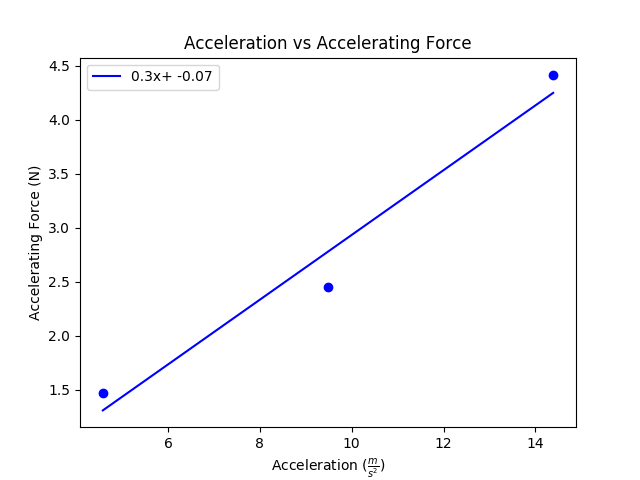
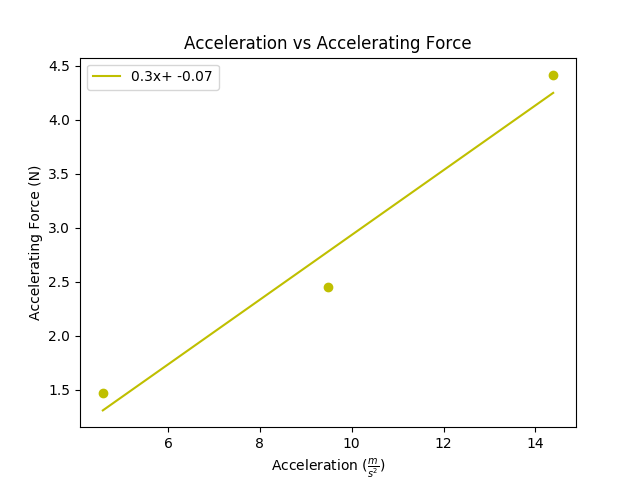
Updating Graphs

diff --git a/SmallQuestions/force_graph_1.py b/SmallQuestions/force_graph_1.py
@@ -25,8 +25,8 @@ def plot(x_data, y_data, color):
 plt.title("Acceleration vs Accelerating Force")
 plt.xlabel(r"Acceleration $(\frac{m}{s^2})$")
 plt.ylabel("Accelerating Force (N)")
-plt.scatter(x1, y1, color="b")
-plot(x1, y1, color="b")
+plt.scatter(x1, y1, color="y")
+plot(x1, y1, color="y")
 plt.legend(loc="upper left")
 plt.savefig("force_1.png")
 plt.show()
